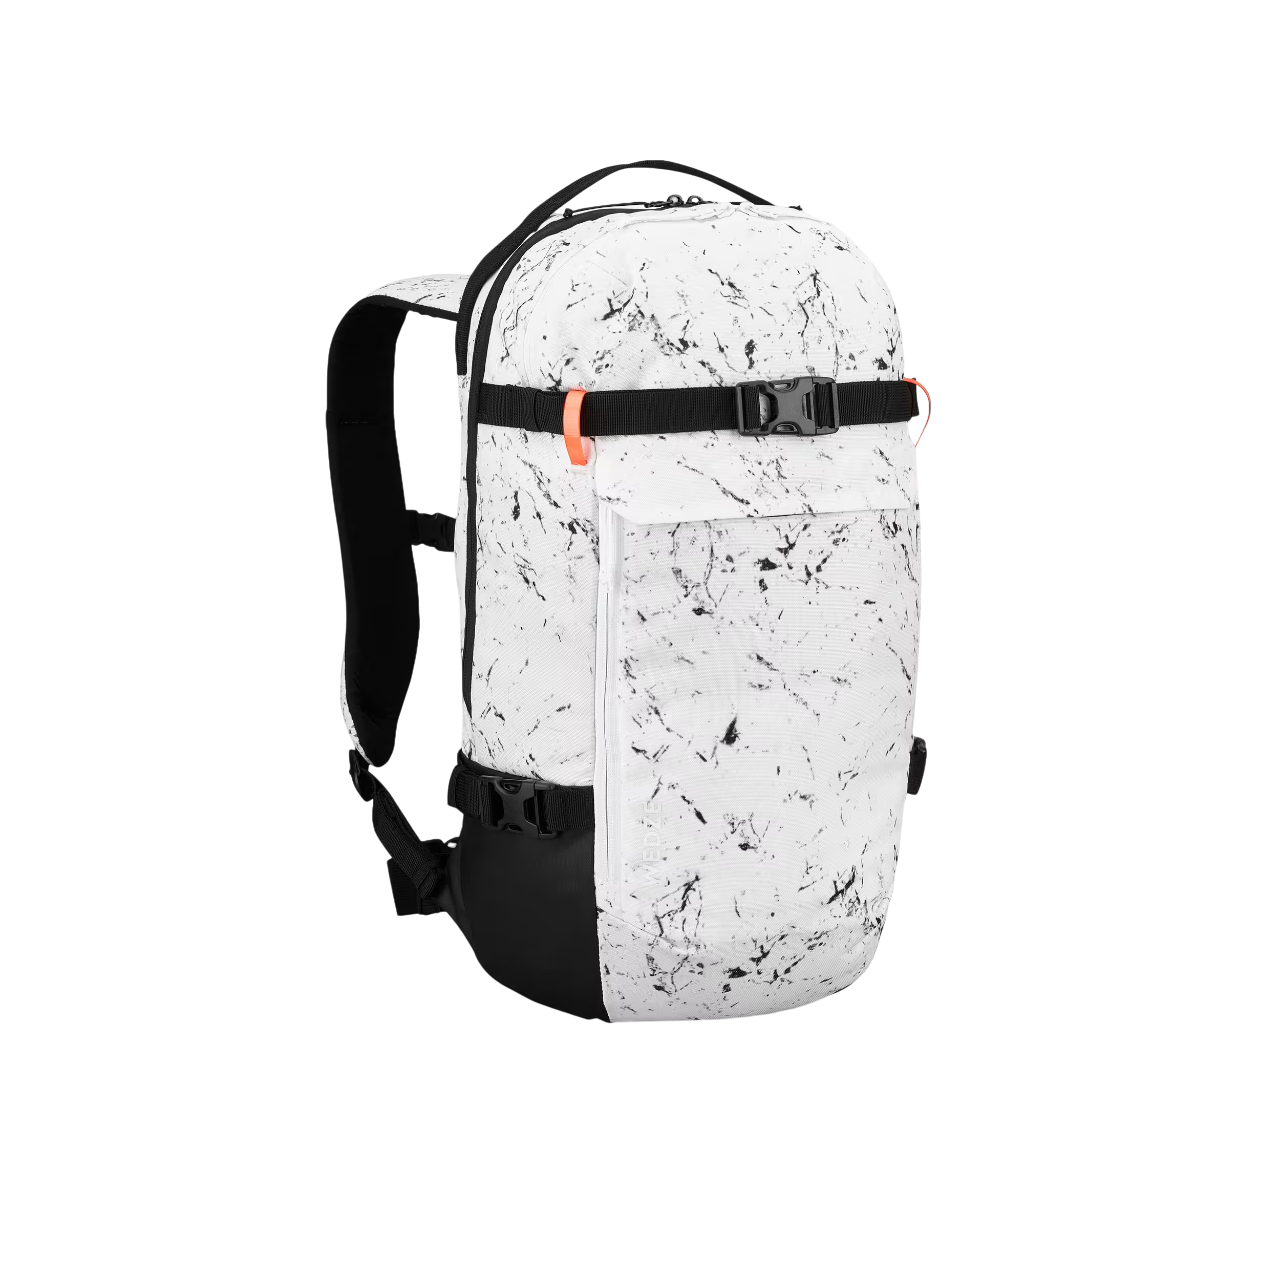
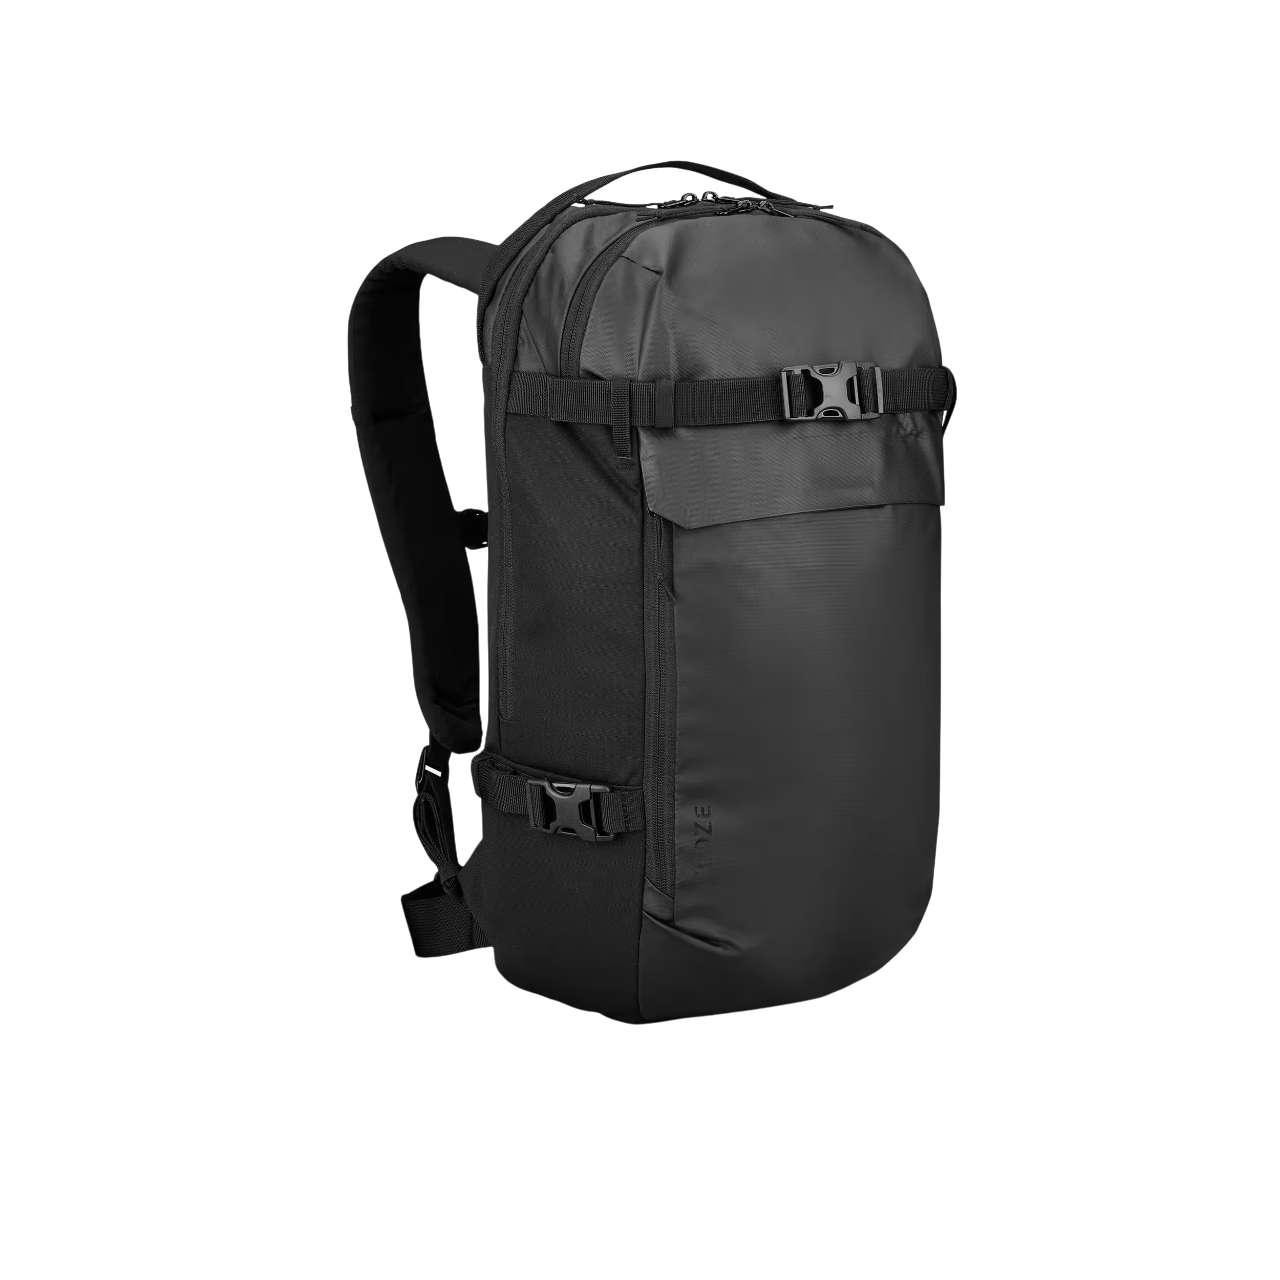
q

Changed region(s): [[0.25, 0.125, 0.75, 0.8125]]

diff --git a/src/app/util/giftBean.ts b/src/app/util/giftBean.ts
@@ -70,9 +70,9 @@ export function getAllGifts(): GiftBean[] {
         },
         {
             title: 'Zaino sci',
-            url: 'https://www.decathlon.it/tutti-gli-sport/sport-invernali/zaini-sci?pdt-highlight=333497&mc=8817094&utm_source=google&utm_medium=cpc&utm_campaign=it_t-perf_ct-shopp_n-b2c-brand-products_ts-gen_f-cv_o-roas_&gad_source=1&gad_campaignid=20498729453&gclid=Cj0KCQjw3OjGBhDYARIsADd-uX6mMFFhmE5l8V0YMs0X0VSaDjbPZUoRfv5HivlBxEqhvJybgKr1wLYaAg6wEALw_wcB',
+            url: 'https://www.decathlon.it/p/zaino-freeride-e-mtb-fr-am-100-23-litri-nero/_/R-p-333497?mc=8655058&c=nero%20fumo',
             img: 'zaino-sci.png',
-            color: 'Bianco, Nero',
+            color: 'Nero',
             size: '',
             isDisabled: false,
             dateInsert: '2025-09-30 08:26:00'
@@ -108,7 +108,7 @@ export function getAllGifts(): GiftBean[] {
             title: 'Casco sci',
             url: 'https://www.decathlon.it/p/casco-sci-snowboard-adulto-e-bambino-fs300-viola/_/R-p-166071?mc=8660316&c=bianco%20brillante',
             img: 'casco-sci-1.png',
-            color: 'Bianco/Nero',
+            color: 'Nero',
             size: 'L',
             isDisabled: false,
             dateInsert: '2025-09-30 09:21:00'
